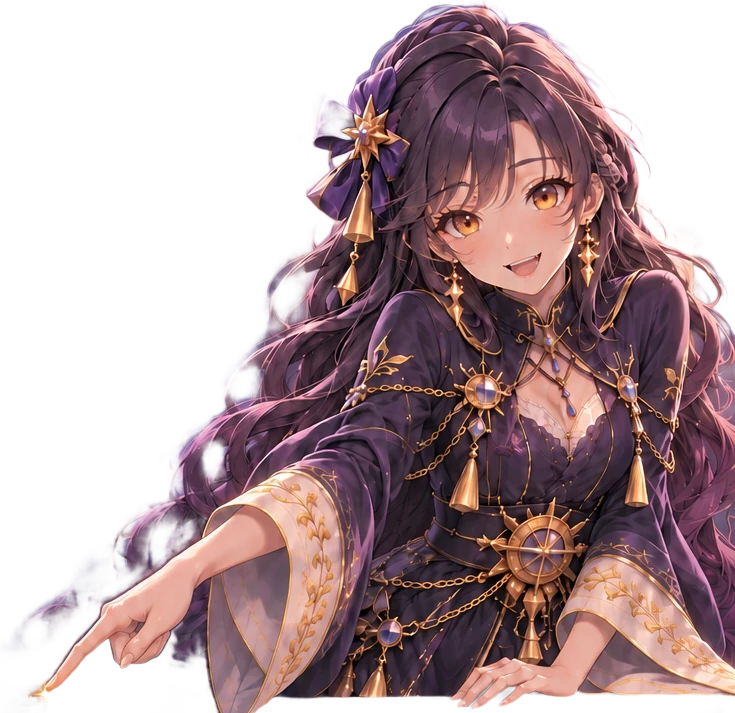
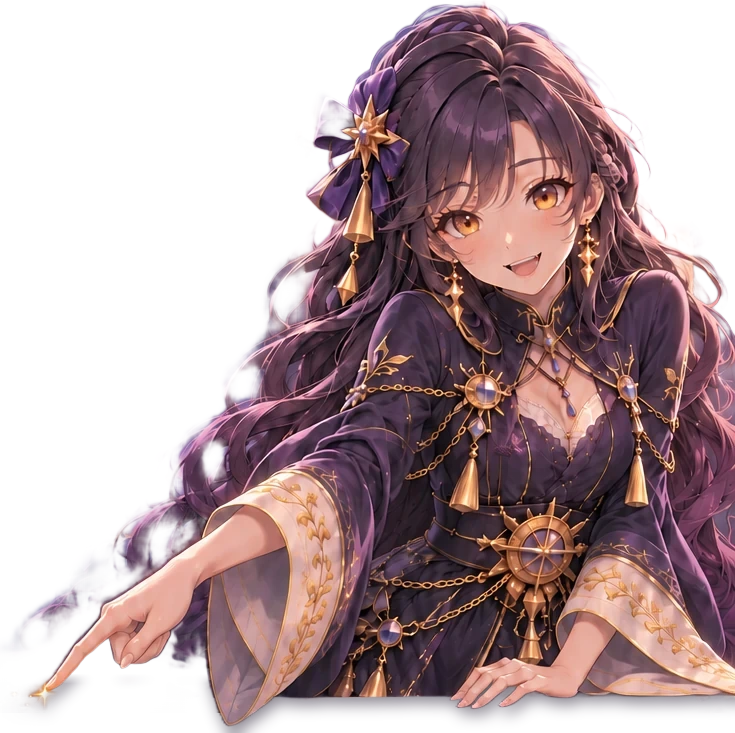
A11: Alaira recargada en el barandal (manga completa y sombra de contacto)
Claude-Session: https://claude.ai/code/session_01CL7wg269cKFeX8NUniz13e

diff --git a/kura/a01/styles.css b/kura/a01/styles.css
@@ -797,7 +797,7 @@ button, input { font: inherit; color: inherit; }
 .scene11.is-on { visibility: visible; }
 .scene11 .a6-layer > img { position: absolute; inset: 0; width: 100%; height: 100%; display: block; max-width: none; user-select: none; -webkit-user-drag: none; }
 /* Alaira respira: un vaivén mínimo anclado a sus brazos sobre el barandal (solo transformación: no cuesta) */
-.a11-alaira-img { transform-origin: 40% 96%; animation: a11-respira 5.2s ease-in-out infinite alternate; }
+.a11-alaira-img { transform-origin: 40% 93%; animation: a11-respira 5.2s ease-in-out infinite alternate; }
 @keyframes a11-respira { from { scale: 1 1; rotate: 0deg; } to { scale: 1.006 1.012; rotate: -.35deg; } }
 /* punta del índice: una lucecita late; al tocar un banner destella */
 .a11-dedo { position: absolute; width: calc(76 * var(--v)); height: calc(76 * var(--v)); margin: calc(-38 * var(--v)) 0 0 calc(-38 * var(--v)); border-radius: 50%;

diff --git a/kura/a01/js/a11-capas.js b/kura/a01/js/a11-capas.js
@@ -18,7 +18,7 @@ export const FONDO = { src: 'assets/a11/fondo.webp', box: box(0, 0, 944, 2048), 
 // Alaira recortada (se apoya en el barandal). Se mueve más que el fondo, pero poco en vertical para que sus brazos
 // sigan apoyados en la piedra.
 export const ALAIRA = {
-  src: 'assets/a11/alaira.webp', box: box(209, 99, 735, 713), d: [0.45, 0.14],
+  src: 'assets/a11/alaira.webp', box: box(209, 99, 735, 733), d: [0.45, 0.14],
   dedo: at(252, 790),                 // punta del índice: de aquí sale la estela de chispas
   chispas: box(20, 700, 330, 230),    // zona donde viven las chispas (lienzo pequeño)
 };
